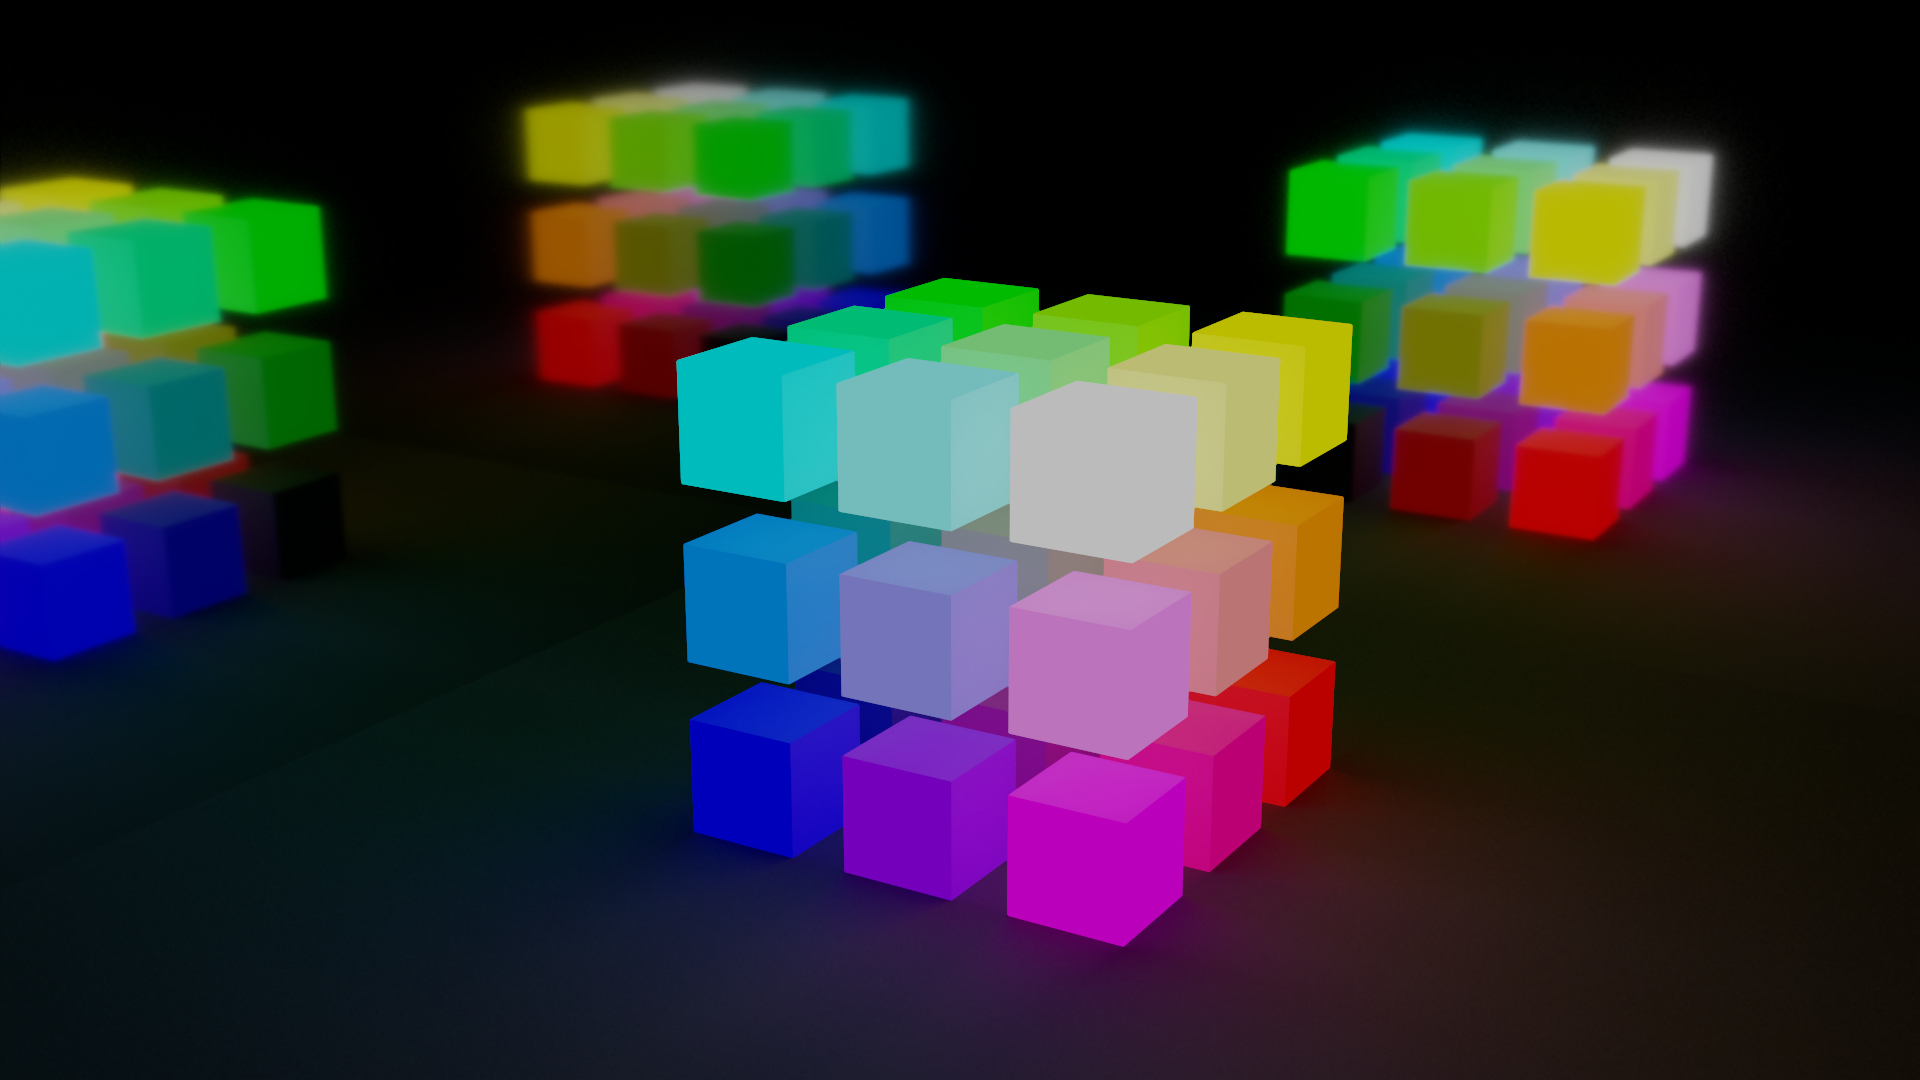
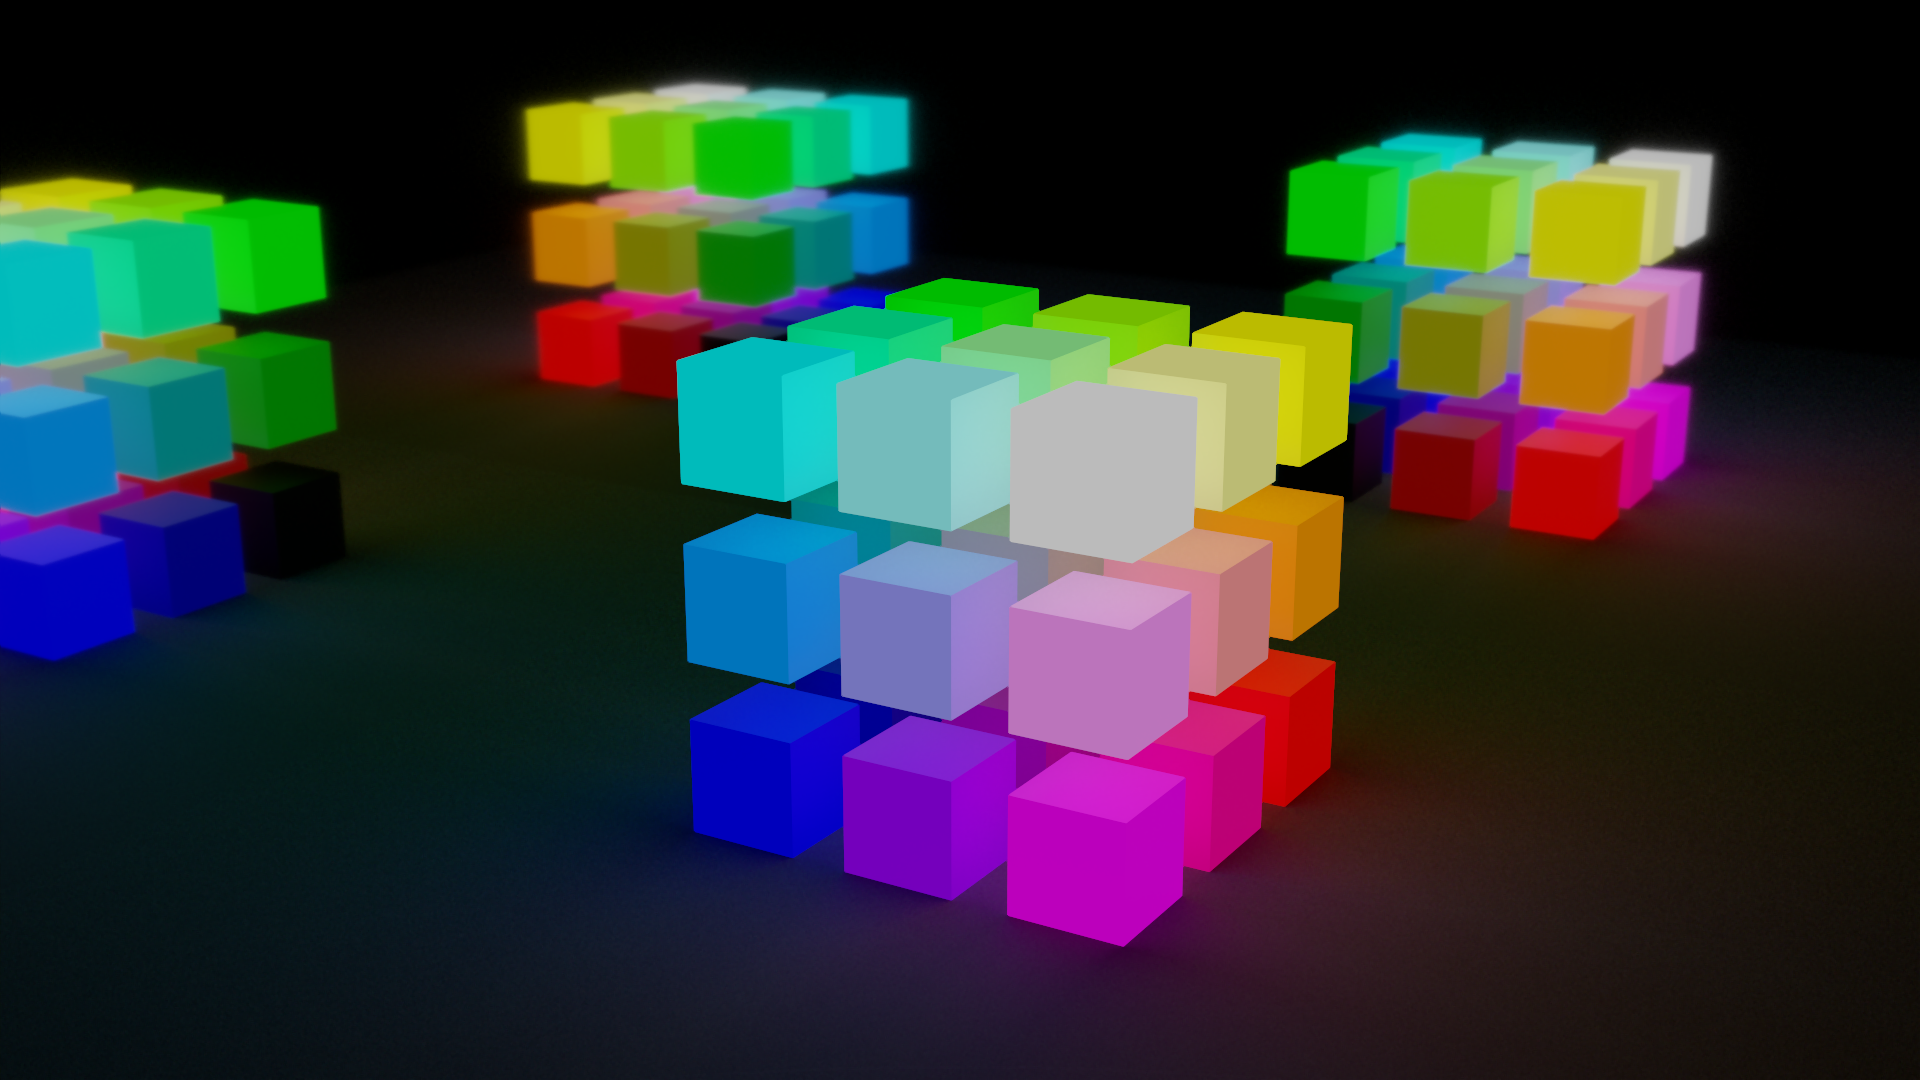
Fixed lighting calculations and other bugs.

diff --git a/src/render.hpp b/src/render.hpp
@@ -15,7 +15,6 @@
 #include <cmath>
 #include <execution>
 
-#include <glm/common.hpp>
 #include <glm/geometric.hpp>
 #include <glm/gtc/constants.hpp>
 #include <glm/mat3x3.hpp>
@@ -41,10 +40,9 @@ struct RenderData {
 };
 
 
-constexpr inline static unsigned PIXEL_SAMPLE_RATE = 1024;
-constexpr inline static unsigned RAY_BOUNCE_LIMIT = 3;
-constexpr inline static float RAY_INTERSECTION_MIN_PARAM = 1e-3f;   // Intersections with line param < this are discarded.
-constexpr inline static unsigned RAY_SAMPLES_PER_BOUNCE = 2;
+constexpr inline static unsigned PIXEL_SAMPLE_RATE = 2048;
+constexpr inline static unsigned RAY_BOUNCE_LIMIT = 4;
+constexpr inline static float RAY_INTERSECTION_T_MIN = 1e-3f;   // Intersections with line param < this are discarded.
 
 
 inline glm::vec3 rayTrace(RayTraceData const& data, Line const& ray, FastRNG& randomEngine, unsigned bounce = 0) {
@@ -53,7 +51,7 @@ inline glm::vec3 rayTrace(RayTraceData const& data, Line const& ray, FastRNG& ra
     }
 
     auto const intersection = data.bspTree.lineTriNearestIntersection<SurfaceConsideration::FRONT_ONLY>(
-        ray, RAY_INTERSECTION_MIN_PARAM);
+        ray, RAY_INTERSECTION_T_MIN);
     if (!intersection) {
         return {0.0f, 0.0f, 0.0f};
     }
@@ -70,6 +68,9 @@ inline glm::vec3 rayTrace(RayTraceData const& data, Line const& ray, FastRNG& ra
     auto const& material = data.materials[intersection->meshTriIndex.mesh];
     auto const point = ray(intersection->t);
     auto const outgoing = -ray.direction;
+
+    // Lighting model based on this paper:
+    // B. Walter, S. R. Marschner, H. Li, and K. E. Torrance, "Microfacet models for refraction through rough surfaces", 2007.
 
     assert(isUnitVector(normal));
     assert(isUnitVector(outgoing));
@@ -90,12 +91,12 @@ inline glm::vec3 rayTrace(RayTraceData const& data, Line const& ray, FastRNG& ra
     // GGX geometry function + Smith's method.
     auto const geometry = [&material](float nDotI, float nDotO, float hDotI, float hDotO) {
         auto const partial = [&material](float nDotR, float hDotR) {
-            if (hDotR < 0.0f != nDotR < 0.0f) {
-                return 0.0f;
-            }
-            else {
+            if ((nDotR > 0.0f && hDotR > 0.0f) || (nDotR < 0.0f && hDotR < 0.0f)) {
                 auto const nDotRSq = square(nDotR);
                 return 2.0f / (1.0f + std::sqrt(1.0f + material.geometryAlphaSq * (1.0f - nDotRSq) / nDotRSq));
+            }
+            else {
+                return 0.0f;
             }
         };
 
@@ -107,48 +108,46 @@ inline glm::vec3 rayTrace(RayTraceData const& data, Line const& ray, FastRNG& ra
         return material.f0 + material.oneMinusF0 * iPow(1.0f - hDotO, 5);
     };
 
-    // Cook-Torrance BRDF for importance-sampled ray bounce.
-    auto const brdf = [&geometry, &fresnel, &outgoing, &normal, nDotO, &material]
-            (float nDotI, float nDotH, float hDotI, float hDotO) {
-        auto const specularG = geometry(nDotI, nDotO, hDotI, hDotO);
-        auto const specularF = fresnel(hDotO);
-        auto const specular = specularG * specularF * hDotI / nDotH;
-        auto const diffuse = (1.0f - specularF) * nDotI * material.adjustedColour;
-        return diffuse + specular;
-    };
-
-    glm::vec3 reflected{0.0f, 0.0f, 0.0f};
     // Take more samples as ray bounces further to try to represent surfaces uniformly even after several bounces
     // (the probability of a specific ray being selected decreases as more bounces occur).
-    auto const samples = iPow(RAY_SAMPLES_PER_BOUNCE, bounce + 1);
-    {
-        auto const [perpendicular1, perpendicular2] = orthonormalBasis(normal);
+    auto const samples = bounce + 1;
 
-        for (unsigned i = 0; i < samples; ++i) {
-            // Sample incident rays according to GGX distribution.
-            auto const thetaParam = randomEngine.unitFloat();
-            auto const cosThetaSq = 1.0f / (1.0f + material.ndfAlphaSq * thetaParam / (1.0f - thetaParam));
-            auto const cosTheta = std::sqrt(cosThetaSq);
-            auto const sinTheta = std::sqrt(1.0f - cosThetaSq);
-            auto const phi = randomEngine.angle();
-            auto const sinPhi = std::sin(phi);
-            auto const cosPhi = std::cos(phi);
+    auto const [perpendicular1, perpendicular2] = orthonormalBasis(normal);
+
+    glm::vec3 reflected{0.0f, 0.0f, 0.0f};
+    for (unsigned i = 0; i < samples; ++i) {
+        // Sample incident rays according to GGX distribution.
+        auto const thetaParam = randomEngine.unitFloat();
+        auto const cosThetaSq = 1.0f / (1.0f + material.ndfAlphaSq * thetaParam / (1.0f - thetaParam));
+        auto const cosTheta = std::sqrt(cosThetaSq);
+        auto const sinTheta = std::sqrt(1.0f - cosThetaSq);
+        auto const phi = randomEngine.angle();
+        auto const sinPhi = std::sin(phi);
+        auto const cosPhi = std::cos(phi);
+        
+        auto const halfway = cosTheta * normal + sinTheta * (cosPhi * perpendicular1 + sinPhi * perpendicular2);
+
+        auto hDotO = glm::dot(halfway, outgoing);
+        auto const incident = 2.0f * hDotO * halfway - outgoing;
+        assert(isUnitVector(incident));
+        auto const nDotI = glm::dot(normal, incident);
+
+        if (nDotI > 0.0f) {
+            auto const incidentLight = rayTrace(data, {point, incident}, randomEngine, bounce + 1);
+
+            // Cook-Torrance BRDF.
+            assert(hDotO > 0.0f);
+            auto const& nDotH = cosTheta;
+            auto const& hDotI = hDotO;
+            auto const specularD = ndf(nDotH);
+            auto const specularG = geometry(nDotI, nDotO, hDotI, hDotO);
+            auto const specularF = fresnel(hDotO);
+            // ray probability = specularD * nDotH / (4 * hDotO)
+            auto const specular = specularG * specularF * hDotO / (nDotO * nDotH);
+            auto const diffuse = 4.0f * (1.0f - specularF) * material.adjustedColour * nDotI * hDotO / (specularD * nDotH);
+            auto const weight = diffuse + specular;
             
-            auto const halfway = cosTheta * normal + sinTheta * (cosPhi * perpendicular1 + sinPhi * perpendicular2);
-
-            auto hDotO = glm::dot(halfway, outgoing);
-            auto const incident = 2.0f * hDotO * halfway - outgoing;
-            auto const nDotI = glm::dot(normal, incident);
-
-            // TODO: fix importance sampling weights
-
-            if (nDotI > 0.0f) {
-                hDotO = std::max(hDotO, 0.0f);
-                auto const& hDotI = hDotO;
-                auto const weight = brdf(nDotI, cosTheta, hDotI, hDotO);
-                auto const incidentLight = rayTrace(data, {point, incident}, randomEngine, bounce + 1);
-                reflected += weight * incidentLight;
-            }
+            reflected += incidentLight * weight;
         }
     }
     reflected /= samples;

diff --git a/src/geometry.hpp b/src/geometry.hpp
@@ -119,6 +119,7 @@ inline std::optional<LineTriIntersection> lineTriIntersection<SurfaceConsiderati
     }
     det = -det;
     auto const invDet = 1.0f / det;
+    // det and invDet guaranteed to be > 0
     auto const AO = line.origin - tri.v1;
     auto const t = glm::dot(AO, tri.normal) * invDet;
     if (t > tMax || t < tMin) {
@@ -128,8 +129,8 @@ inline std::optional<LineTriIntersection> lineTriIntersection<SurfaceConsiderati
     auto u = glm::dot(tri.v1ToV3, DAO);
     auto v = glm::dot(tri.v1ToV2, DAO);
     if (u >= 0.0f && v <= 0.0f && u - v <= det) {
-        u *= -invDet;
-        v *= invDet;
+        u *= invDet;
+        v *= -invDet;
         return {{t, u, v}};
     }
     else {
@@ -146,8 +147,7 @@ inline std::optional<LineTriIntersection> lineTriIntersection<SurfaceConsiderati
     if (std::abs(det) < 1e-6f) {
         return std::nullopt;
     }
-    det = -det;
-    auto const invDet = 1.0f / det;
+    auto const invDet = -1.0f / det;
     auto const AO  = line.origin - tri.v1;
     auto const t = glm::dot(AO, tri.normal) * invDet;
     if (t > tMax || t < tMin) {
@@ -155,8 +155,9 @@ inline std::optional<LineTriIntersection> lineTriIntersection<SurfaceConsiderati
     }
     auto const DAO = glm::cross(AO, line.direction);
     auto const u = glm::dot(tri.v1ToV3, DAO) * invDet;
-    auto const v = -glm::dot(tri.v1ToV2, DAO) * invDet;
-    if (u >= 0.0f && v >= 0.0f && u + v <= 1.0f) {
+    auto v = glm::dot(tri.v1ToV2, DAO) * invDet;
+    if (u >= 0.0f && v <= 0.0f && u - v <= 1.0f) {
+        v = -v;
         return {{t, u, v}};
     }
     else {
@@ -230,7 +231,7 @@ inline bool lineIntersectsBox(Line const& line, BoundingBox const& box) {
 
 
 inline bool triIntersectsBox(Tri tri, BoundingBox const& box) {
-    // Tomas Akenine-Moller, "Fast 3D Triangle-Box Overlap Testing", 2001.
+    // T. Akenine-Moller, "Fast 3D triangle-box overlap testing", 2001.
 
     auto const intervalsDisjoint = [](float i1Min, float i1Max, float i2Min, float i2Max) {
         return i1Max < i2Min || i2Max < i1Min;

diff --git a/src/utility/math.hpp b/src/utility/math.hpp
@@ -20,7 +20,7 @@ constexpr T iPow(T val, unsigned power) {
     for (unsigned i = 0; i < power; ++i) {
         result *= val;
     }
-    return val;
+    return result;
 }
 
 
@@ -36,14 +36,15 @@ inline bool isUnitVector(glm::vec3 const& vec) {
 
 inline std::pair<glm::vec3, glm::vec3> orthonormalBasis(glm::vec3 const& vec) {
     assert(isUnitVector(vec));
-    glm::vec3 tmp{0.56863665f, -0.77215318f, 0.28360506f};      // Arbitrary vector.
+    glm::vec3 tmp{0.56863665f, -0.77215318f, 0.28360506f};      // Arbitrary unit vector.
     auto dot = glm::dot(tmp, vec);
     // This branch will almost never be taken.
     if (std::abs(1.0f - std::abs(dot)) < 1e-3f) {
+        // If original dot product is 0, then dot product with this vector cannot be 0.
         tmp = {0.56863665f, 0.77215318f, 0.28360506f};
         dot = glm::dot(tmp, vec);
     }
-    auto const perpendicular1 = tmp - dot * vec;
-    auto const perpendicular2 = glm::cross(vec, perpendicular1);
+    auto const perpendicular1 = glm::normalize(tmp - dot * vec);
+    auto const perpendicular2 = glm::normalize(glm::cross(vec, perpendicular1));
     return {perpendicular1, perpendicular2};
 }

diff --git a/src/main.cpp b/src/main.cpp
@@ -124,14 +124,12 @@ int main() {
 
     Scene scene{
         {   // Camera
-            {9.0f, 8.0f, 16.0f},
-            glm::vec3{0.3f, -2.6f, 0.0f},
-            glm::radians(45.0f)
+            {9.0f, 8.0f, 16.0f}, glm::vec3{0.3f, -2.6f, 0.0f}, glm::radians(45.0f)
         },
         {plane(), cube()},   // Meshes
         {   // Materials
-            {{0.25f, 0.25f, 0.25f}, 0.9f, 0.0f, {0.0f, 0.0f, 0.0f}},    // Grey
-            {{1.0f, 1.0f, 1.0f}, 0.00001f, 1.0f, {0.0f, 0.0f, 0.0f}}    // Mirror
+            {{0.25f, 0.25f, 0.25f}, 0.9f, 0.0f, {0.0f, 0.0f, 0.0f}},    // Floor
+            {{1.0f, 1.0f, 1.0f}, 0.04f, 1.0f, {0.0f, 0.0f, 0.0f}}       // Mirror
         },
         {   // Models
             {   // Mesh instance transforms

diff --git a/src/material.hpp b/src/material.hpp
@@ -4,6 +4,7 @@
 
 #include <cassert>
 
+#include <glm/gtc/constants.hpp>
 #include <glm/vec3.hpp>
 
 
@@ -36,7 +37,7 @@ inline PreprocessedMaterial preprocessMaterial(Material const& material) {
     auto const oneMinusMetalness = 1.0f - material.metalness;
     auto const f0 = oneMinusMetalness * glm::vec3{0.04f} + material.metalness * material.colour;
     auto const oneMinusF0 = 1.0f - f0;
-    auto const adjustedColour = oneMinusMetalness * material.colour;
+    auto const adjustedColour = oneMinusMetalness * material.colour / glm::pi<float>();
 
     return {ndfAlphaSq, geometryAlphaSq, f0, oneMinusF0, adjustedColour, material.emission};
 }
